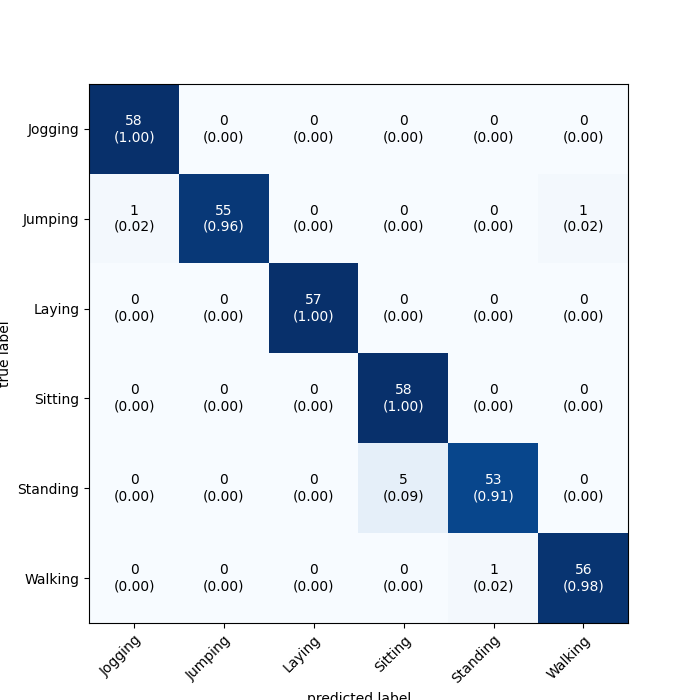
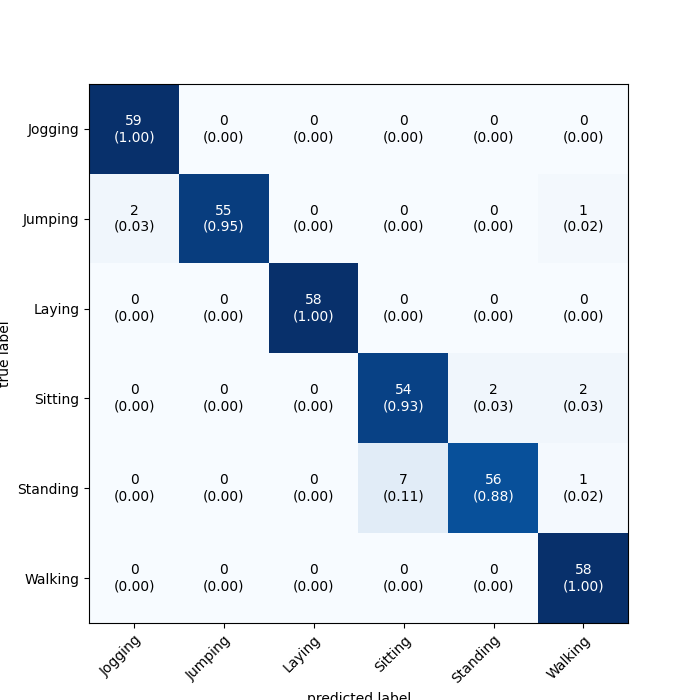
update room model

diff --git a/room_classifier/ImageConvert/image_copy.py b/room_classifier/ImageConvert/image_copy.py
@@ -164,7 +164,7 @@ def copy_file_from_dir(dir, dest_dir):
             else:
                 print(fn)
                 image_file = dir + '/' + fn
-                dest_file = dest_dir + '/' + fn.strip('.jpg') + '-' + str(g_copy_file_count) + '.jpg'
+                dest_file = dest_dir + '/' + fn.strip('.jpg') + '-' + str(g_copy_file_count) + '0823' + '.jpg'
                 #dest_file = dest_dir + '/' + room_name + '-' + str(g_copy_file_count) + '.jpg'
 
                 try:
@@ -250,15 +250,15 @@ def copy_ascc_act_dir(dir, target_dir, type, copy_flag=False):
     print('count:', count)
 
 
-target_dir = '/home/ascc/Desktop/test_set/'
-dir = '/home/ascc/Desktop/adl_0819v1/activity_data/'
-copy_ascc_act_dir(dir,  target_dir, type = 'Motion')
-copy_ascc_act_dir(dir,  target_dir, type = 'Motion', copy_flag=True)
-copy_ascc_act_dir(dir,  target_dir, type = 'Audio', copy_flag=True)
-copy_ascc_act_dir(dir,  target_dir, type = 'Image', copy_flag=True)
+# target_dir = '/home/ascc/Desktop/image_0823/rotate/bed/'
+# dir = '/home/ascc/Desktop/image_0823/rotate/bed_pad/'
+# # copy_ascc_act_dir(dir,  target_dir, type = 'Motion')
+# # copy_ascc_act_dir(dir,  target_dir, type = 'Motion', copy_flag=True)
+# # copy_ascc_act_dir(dir,  target_dir, type = 'Audio', copy_flag=True)
+# copy_ascc_act_dir(dir,  target_dir, type = 'Image', copy_flag=True)
 
 
-exit(0)
+# exit(0)
 
 #image_rotate(IMAGE_TEST)
 
@@ -283,6 +283,9 @@ image_dest_dir = '/home/ascc/Desktop/data_activity_0217/data_0217/Res_activity/D
 
 image_dir = '/home/ascc/Desktop/image_living_bedroom/new_data/bed_rotate/'
 image_dest_dir = '/home/ascc/Desktop/image_living_bedroom/new_data/bed_res/'
+
+image_dir = '/home/ascc/Desktop/image_0823/rotate/bed/'
+image_dest_dir = '/home/ascc/Desktop/image_0823/rotate/bed_pad/'
 
 count = generate_copy_image_file_from_dir(image_dir, image_dest_dir)
 

diff --git a/tools_ascc.py b/tools_ascc.py
@@ -614,8 +614,18 @@ def get_exist_motion_dir(motion_dir_name):
     time_str = motion_dir.split('/')[-2]
     d_act = datetime.strptime(time_str, ASCC_DATASET_DATE_HOUR_TIME_FORMAT_DIR)
 
-    for i in range( 60 ):
+    for i in range(5):
         new_time = d_act - timedelta(seconds = i)
+        ascc_dir_time = convert_time_to_real(new_time)
+        new_motion_dir_name = ASCC_DATA_SET_DIR + '/' + 'Motion/' + ascc_dir_time + '/'
+
+        if os.path.exists(new_motion_dir_name) == True:
+            print('tools_ascc new_motion_dir_name:', new_motion_dir_name)
+
+            return new_motion_dir_name
+
+    for i in range(2):
+        new_time = d_act + timedelta(seconds = i)
         ascc_dir_time = convert_time_to_real(new_time)
         new_motion_dir_name = ASCC_DATA_SET_DIR + '/' + 'Motion/' + ascc_dir_time + '/'
 
@@ -643,7 +653,7 @@ def get_activity_by_motion_dnn(time_str, action='vision'):
     # /home/ascc/LF_Workspace/ReinforcementLearning/ASCC_Energy_Consumption/ASCC-RL-Algorithms_New_Reward_Test_Part/ascc_activity_real_data_0309//Image/2009-12-11-08-45-15/
 
     # check motion dir
-    # motion_dir_name = get_exist_motion_dir(motion_dir_name)
+    motion_dir_name = get_exist_motion_dir(motion_dir_name)
 
     if motion_dir_name == '':
         return [], []
@@ -658,7 +668,7 @@ def get_activity_by_motion_dnn(time_str, action='vision'):
     res_str = read_res_from_file(ASCC_MOTION_DATA_RES_FILE)
 
     
-    print('Motion Recognition res:', res_str)
+    print('Motion Recognition res:', res_str, ',dir:', motion_dir_name)
 
 
     res_list = res_str.split('\t')

diff --git a/room_motion_activity/WMU_case.py b/room_motion_activity/WMU_case.py
@@ -22,6 +22,8 @@ from datetime import datetime
 from datetime import timedelta
 from timeit import default_timer as timer
 
+import threading
+
 from io import BytesIO
 
 import struct
@@ -409,9 +411,18 @@ while (True):
         Speaker(file)
         state = -1
 
-    motion_data_saver()
+    # motion_data_saver()
     #state = STATE_CAMERA
-    exit(0)
+
+
+    t_photo_audio = threading.Thread(target=photo_audio_capture)
+    t_motion = threading.Thread(target=motion_data_saver)
+
+    t_photo_audio.start()
+    t_motion.start()
+
+    t_photo_audio.join(6)
+    t_motion.join(7) # in seconds
 
 
 #    (x, y, z) = accelerometer.acceleration

diff --git a/room_classifier/ascc_room_activity_test.py b/room_classifier/ascc_room_activity_test.py
@@ -131,7 +131,7 @@ def predict(file, model, to_class):
 def test():
     # execute this when you want to load the model
     from keras.models import load_model
-    MODEL_SAVED_PATH = 'saved-model_12_lobby'
+    MODEL_SAVED_PATH = 'saved-model2'
 
     ml = load_model(MODEL_SAVED_PATH)
 
@@ -262,8 +262,8 @@ if __name__ == "__main__":
 
     log.init_log("./log/my_program")  # ./log/my_program.log./log/my_program.log.wf7
     logging.info("Hello World!!!")
-    # test()
-    run()
+    test()
+    # run()
 
 
 

diff --git a/room_classifier/room_classifier_train.py b/room_classifier/room_classifier_train.py
@@ -130,7 +130,7 @@ m = create_model(total_classes)
 # Run this several times until you get good acurracy in validation (wachout of overfitting)
 # for i in range(MAX_EPOCH):
 #     train(train_generator, validation_generator, m)
-train2(train_generator, validation_generator, m, epoch=10)
+train2(train_generator, validation_generator, m, epoch=12)
 
 
 

diff --git a/room_classifier/ImageConvert/image_rotate.py b/room_classifier/ImageConvert/image_rotate.py
@@ -156,6 +156,6 @@ def get_rotate_file_from_dir(dir):
 
 # count = get_file_count_of_dir(IMAGE_DIR)
 # count = get_rotate_file_of_dir(IMAGE_DIR, IMAGE_SAVE_DIR)
-IMAGE_DIR = "/home/ascc/Desktop/data_0819_p2/images/"
+IMAGE_DIR = "/home/ascc/Desktop/image_0823/"
 count = get_rotate_file_from_dir(IMAGE_DIR)
 print("Rotate file count:", count)

diff --git a/motion_env_ascc.py b/motion_env_ascc.py
@@ -162,8 +162,8 @@ ACTION_DICT = {
 ACTION_INTERVAL_DICT = {
     0: 1,  # "audio",
     1: 1.0/3, #"vision",
-    2: 3, #"motion"
-    3: 4+1.0/3, # fusion
+    2: 2, #"motion"
+    3: 2, # fusion  # multi-thread, simultanously
 }
 
 # ACTION_INTERVAL_DICT = {
